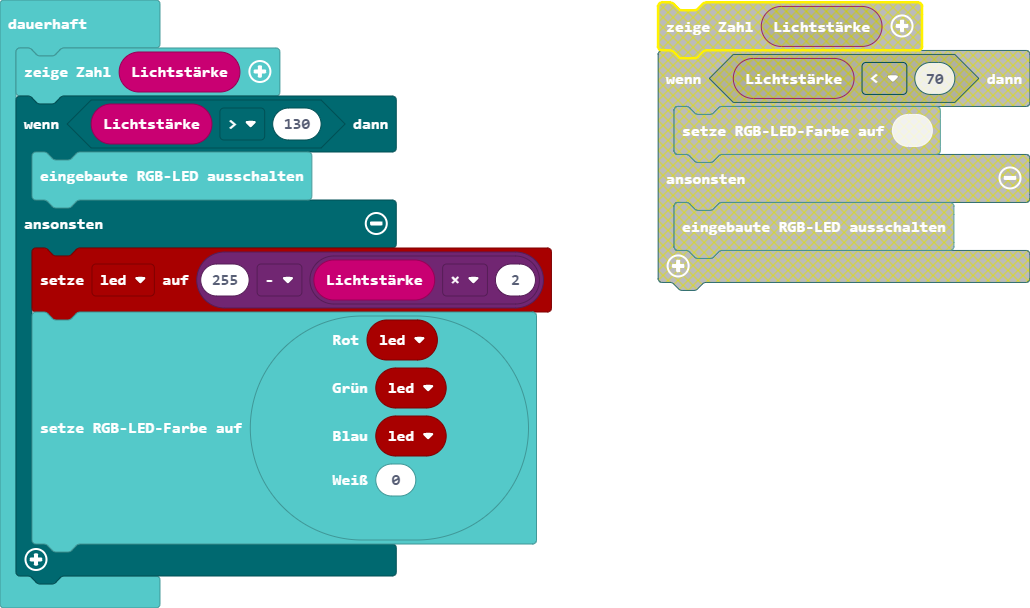
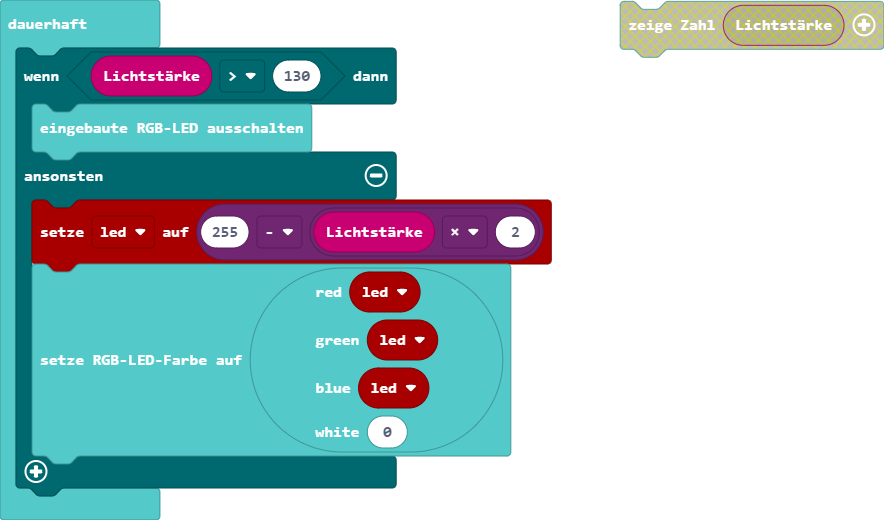
Aktualisiere main.blocks, main.ts

diff --git a/main.ts b/main.ts
@@ -1,6 +1,5 @@
 let led2 = 0
 basic.forever(function () {
-    basic.showNumber(input.lightLevel())
     if (input.lightLevel() > 130) {
         basic.turnRgbLedOff()
     } else {
